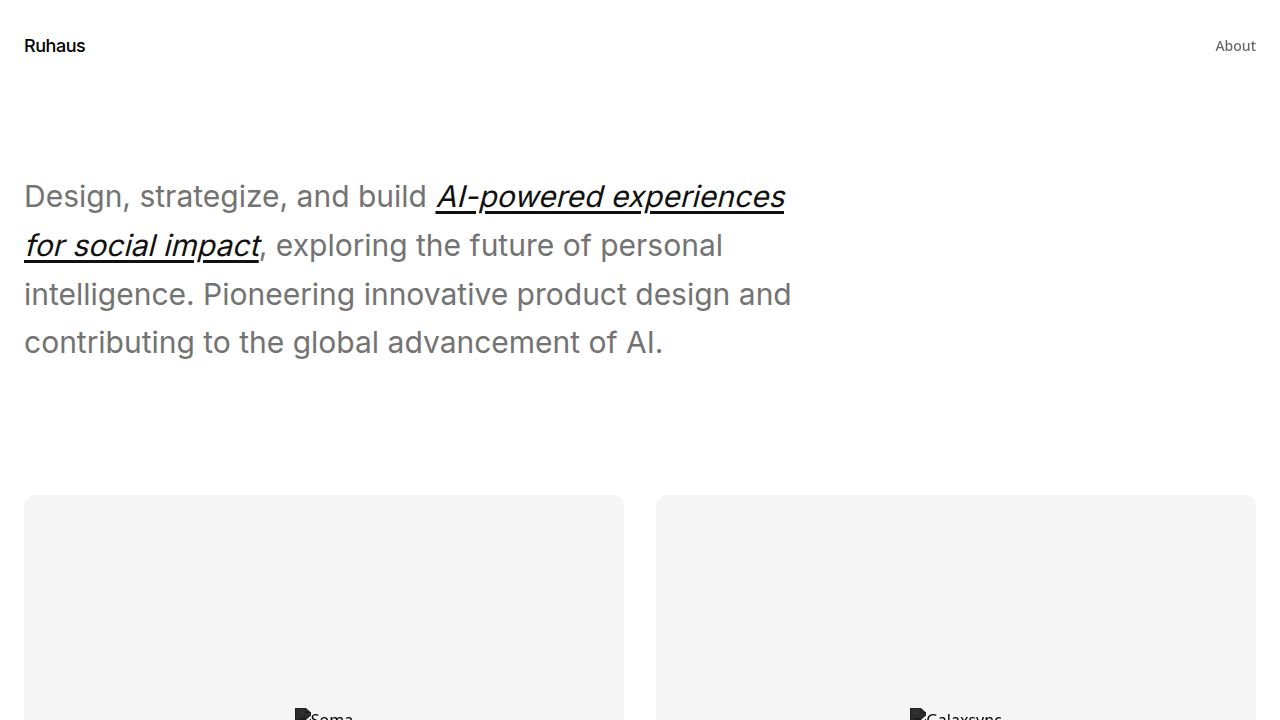
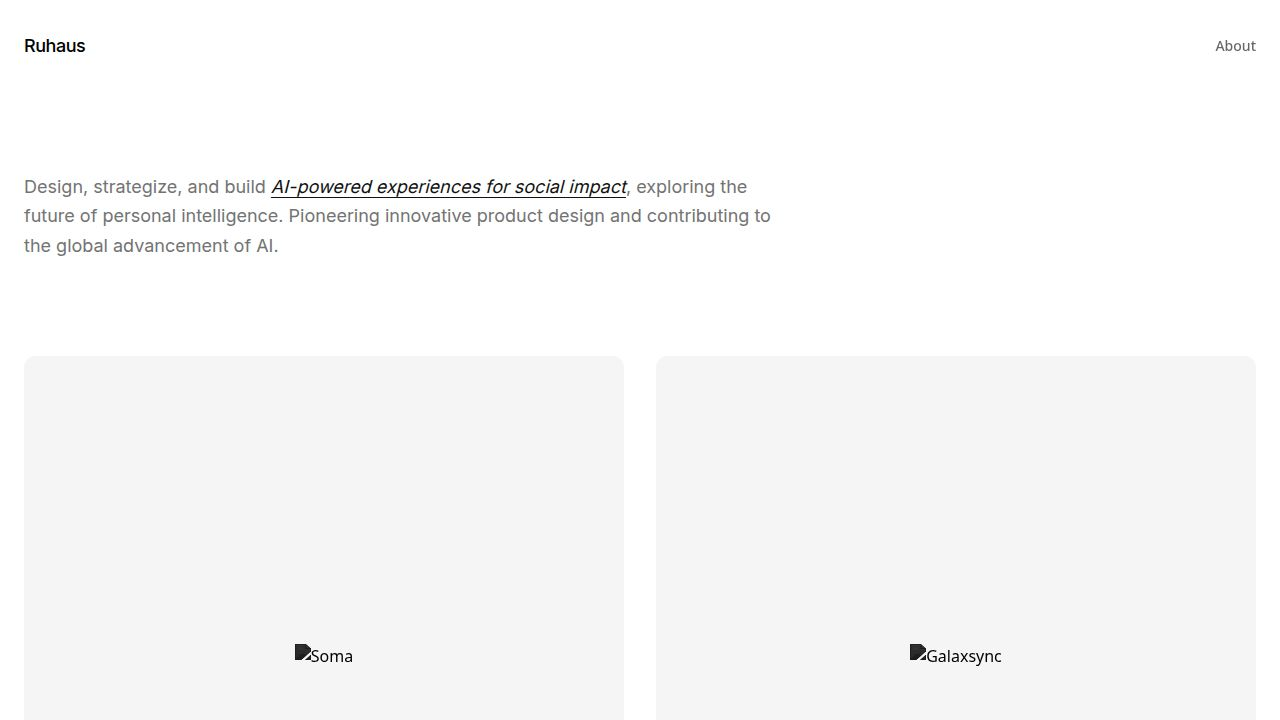
Adjust home page layout and text size for better visual appeal
Update text styles and card aspect ratios in Home.tsx to reduce font size and thumbnail height.

Replit-Commit-Author: Agent
Replit-Commit-Session-Id: 36821d3d-2567-4f09-bde8-22ba6bf7bbdc
Replit-Commit-Checkpoint-Type: full_checkpoint
Replit-Commit-Event-Id: b4d025e6-394d-46ef-8b70-b4f2df05ba8d
Replit-Commit-Screenshot-Url: https://storage.googleapis.com/screenshot-production-us-central1/e22c05de-6ca9-4451-85ac-3fb74cd94420/36821d3d-2567-4f09-bde8-22ba6bf7bbdc/kLz6iuL
Replit-Helium-Checkpoint-Created: true

diff --git a/client/src/pages/Home.tsx b/client/src/pages/Home.tsx
@@ -35,8 +35,8 @@ export default function Home() {
       {/* Main Content */}
       <main className="max-w-7xl mx-auto px-6 py-12 md:py-20">
         {/* Hero Section */}
-        <div className="max-w-3xl mb-24 md:mb-32">
-          <h2 className="text-2xl md:text-3xl font-normal playground-heading mb-12 leading-relaxed text-neutral-500">
+        <div className="max-w-3xl mb-16 md:mb-24">
+          <h2 className="text-base md:text-lg font-normal playground-heading mb-8 leading-relaxed text-neutral-500">
             Design, strategize, and build <span className="playground-accent italic">AI-powered experiences for social impact</span>, exploring the future of personal intelligence. 
             Pioneering innovative product design and contributing to the global advancement of AI.
           </h2>
@@ -60,7 +60,7 @@ export default function Home() {
                 onClick={() => navigate(`/${project.slug}`)}
               >
                 {/* Project Card/Image */}
-                <div className="playground-card mb-6 relative aspect-[4/3] overflow-hidden">
+                <div className="playground-card mb-6 relative aspect-square overflow-hidden">
                   <div className="playground-card-img-container w-full h-full relative flex items-center justify-center bg-[#F5F5F5] p-12 md:p-20">
                     <img 
                       src={project.image} 